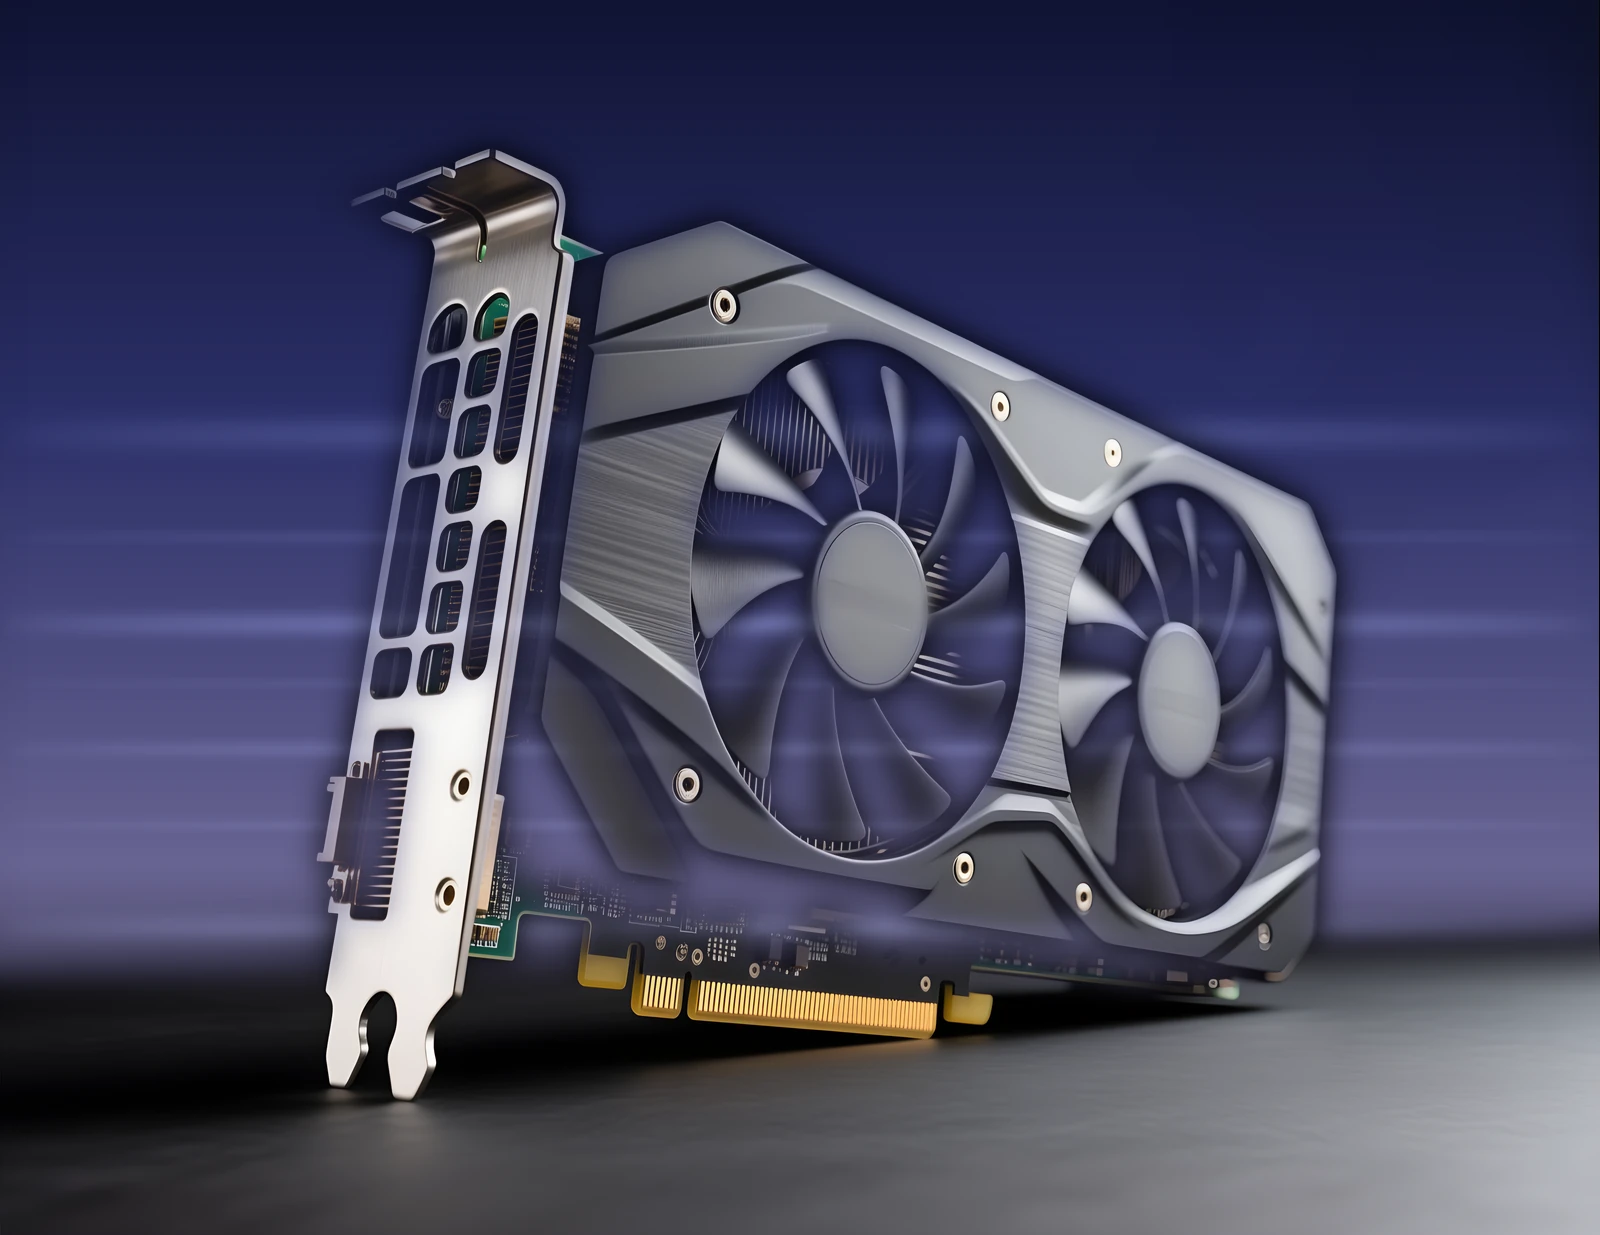
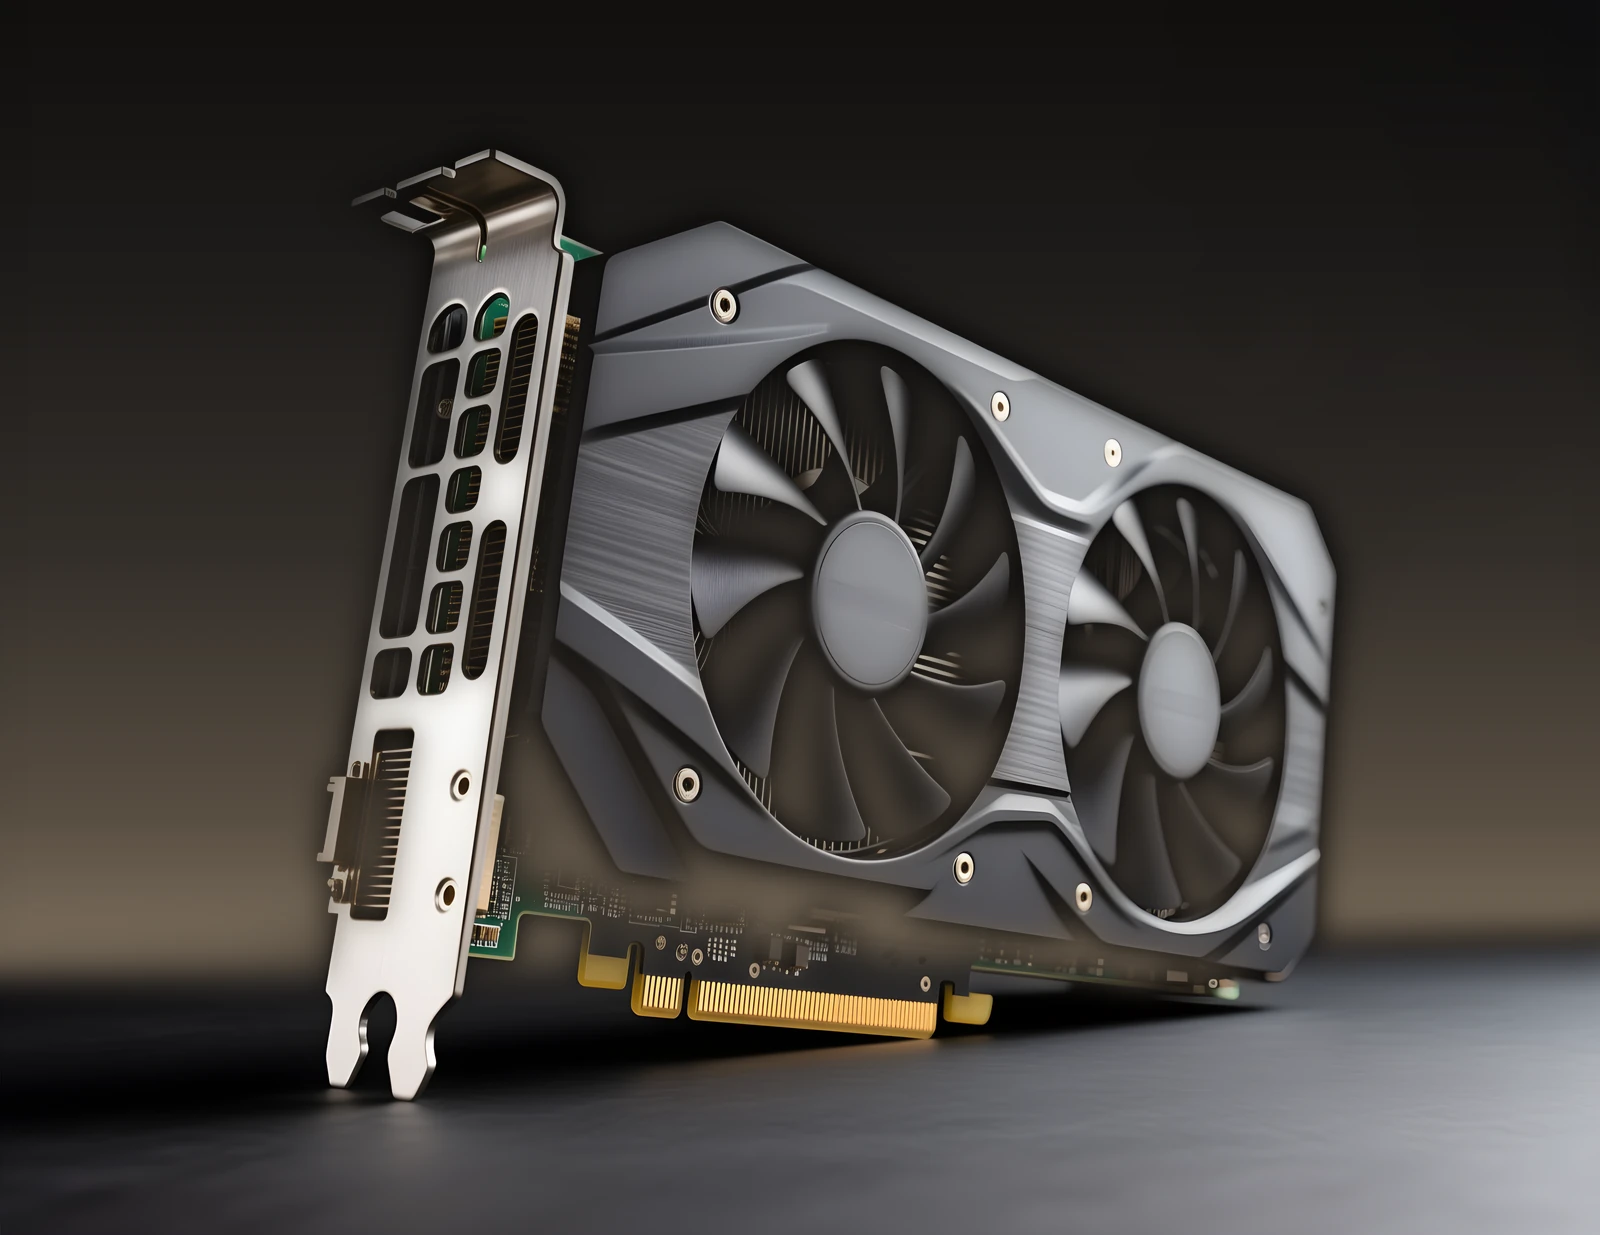
Stand the AM4 plates on this page's ground, not the reference's
The four staged images used LIT_GROUND, which was sampled pixel-for-pixel off
the reference storefront's artwork. On their page that ramp is right, because
their accent is blue. On this one the accent is amber, so every plate sat as a
navy-violet rectangle beside amber headings and amber numerals -- and in the
light theme it was a blue block dropped onto a white page, which is what the
last screenshot showed.

PLATE_GROUND keeps the shape of that gradient -- dark overhead, light at the
floor, the product standing on light -- in this page's own colour: neutral
graphite to a warm horizon. Neutral rather than amber, because a saturated
backdrop behind a grey component reads as a filter rather than as a studio.

The speed streaks go with it. They are a consumer-gaming cue, and this page
sells to procurement. streaks() is kept, and its docstring now says why it is
unused here rather than leaving it to look like live code.

Also:

  - The chassis card moves to the same ground. It was the last thing on the
    page still on the reference's navy, and leaving it there would have made
    the bento's largest card the only blue object on the page.
  - A Graphics stat read "UP TO / 16GB / Up to, Radeon RX" -- the label
    repeated its own prefix.
  - The storage alt text described three drives. The plate shows two; the M.2
    has been out of it since the fourth failed render.

The drives are still blank sealed boxes, and an attempt to fix that by
[…]

diff --git a/frontend/src/data/pdp/mt-amd-am4.js b/frontend/src/data/pdp/mt-amd-am4.js
@@ -23,6 +23,11 @@
  * look like directly under a section showing real DIMMs. It stays in the spec
  * row, the footnote and the bento glyph until someone photographs one.
  *
+ * The two drives that are shown read as plain sealed enclosures because every
+ * attempt to give them a connector edge produced something else -- hinge tabs
+ * on the 2.5", a latch clasp on the 3.5". gen_am4.py records the wording and
+ * the result. Blank is the deliberate choice, not the default one.
+ *
  * Every number on this page is either a row of this model's specGroups
  * (models.js) or AMD's published figure for the Ryzen 7 5700G the spec names:
  * 8 cores, 16 threads, 3.8 GHz base, up to 4.6 GHz boost, 16 MB L3.
@@ -149,7 +154,7 @@ export default {
       "alt": "A full-height desktop graphics card with two fans, rendered",
       "flip": true,
       "stats": [
-        ["16", "GB", "Up to, Radeon RX", "Up to"],
+        ["16", "GB", "Radeon RX card memory", "Up to"],
         ["500", "W", "80+ Bronze ATX supply"]
       ],
       "footnote": "A discrete graphics card is an optional configuration. Image is an illustration, not the card supplied."
@@ -174,7 +179,7 @@ export default {
       "headingAccent": "in the same box.",
       "body": "An M.2 SSD for the operating system and working files, with a 2.5-inch bay and a 3.5-inch bay beside it for bulk storage — all reachable from the one hand-removable side panel.",
       "image": "/images/am4/storage-set.webp",
-      "alt": "An M.2 drive, a 2.5-inch drive and a 3.5-inch drive, rendered",
+      "alt": "A 2.5-inch drive and a 3.5-inch drive shown at their true relative sizes, rendered",
       "flip": true,
       "footnote": "1× M.2 SSD (auto-switch) · 1× 2.5″ HDD/SSD · 1× 3.5″ HDD. Image is an illustration."
     },

diff --git a/tools/image-processing/am4_studio.py b/tools/image-processing/am4_studio.py
@@ -239,6 +239,23 @@ LIT_GROUND = ((0.00, (24, 26, 40)), (0.06, (17, 23, 73)), (0.20, (41, 48, 116)),
               (0.74, (191, 175, 186)), (0.86, (234, 223, 217)), (1.00, (150, 132, 130)))
 
 
+#: The component plates' backdrop: graphite falling to a warm horizon.
+#:
+#: LIT_GROUND below is the reference storefront's own ramp -- navy through violet
+#: to a near-white sand -- and it was sampled off their artwork and used here
+#: verbatim. On their page that is right: their accent IS blue. On this one the
+#: accent is amber, so a blue plate sat beside amber headings and amber numerals
+#: and read as borrowed, and on the light theme it was a blue rectangle dropped
+#: onto a white page.
+#:
+#: These stops are the same SHAPE of gradient -- dark overhead, light at the
+#: floor, the product standing on light -- in this page's own colour. Neutral
+#: graphite rather than a saturated amber, because a strongly tinted backdrop
+#: behind a grey component reads as a filter rather than as a studio.
+PLATE_GROUND = ((0.00, (17, 16, 15)), (0.22, (30, 28, 26)), (0.45, (52, 47, 42)),
+                (0.66, (88, 78, 66)), (0.84, (146, 129, 108)), (1.00, (183, 166, 142)))
+
+
 def _ground(W, H, stops):
     """A vertical gradient. Stops are (position, colour) pairs, or two colours."""
     if len(stops[0]) == 3:
@@ -253,6 +270,13 @@ def _ground(W, H, stops):
 
 def streaks(img, at=0.52, count=7, spread=0.22, strength=0.55, tint=(196, 214, 255)):
     """Horizontal light streaks across the backdrop, behind the subject.
+
+    UNUSED as of the move to PLATE_GROUND, and kept rather than deleted because
+    the technique is sound and only the styling was wrong for this page. Streaks
+    are a consumer-gaming cue -- the reference sells to enthusiasts, this page
+    sells to procurement -- and a plain graphite sweep reads as the product
+    photography an enterprise buyer expects. Bring them back for a page that
+    wants that energy; do not bring them back here.
 
     The reference's component sections all carry these -- long, soft, unevenly
     spaced bands of light drawn through the gradient at about the subject's

diff --git a/tools/image-processing/stage_am4_parts.py b/tools/image-processing/stage_am4_parts.py
@@ -145,9 +145,8 @@ def sky_swap(im, horizon, ceiling=34, feather=0.012):
     sel = band[bl <= np.percentile(bl, 60)]
     floor_rgb = np.median(sel, axis=0) if sel.size else np.array([28.0, 28.0, 34.0])
 
-    ground = ((0.00, (16, 20, 52)), (0.34, (44, 48, 104)), (0.70, (104, 100, 146)),
-              (1.00, tuple(int(v) for v in floor_rgb)))
-    bg = studio.streaks(studio._ground(W, H, ground), at=horizon * 0.72, strength=0.26)
+    ground = studio.PLATE_GROUND[:-1] + ((1.00, tuple(int(v) for v in floor_rgb)),)
+    bg = studio._ground(W, H, ground)
 
     rows = np.arange(H)[:, None]
     sky = np.clip((ceiling - lum) / ceiling, 0, 1) * (rows < y0)
@@ -226,7 +225,7 @@ def storage_set(gap=0.030, floor=0.70, widest=0.50):
     total = sum(i.width for i in sized) + round(gap * W) * (len(sized) - 1)
     x = (W - total) // 2
     base = round(H * floor)
-    canvas = studio.streaks(studio._ground(W, H, studio.LIT_GROUND), at=0.56, strength=0.26)
+    canvas = studio._ground(W, H, studio.PLATE_GROUND)
     shadow = Image.new("L", (W, H), 0)
     d = ImageDraw.Draw(shadow)
     for im in sized:
@@ -264,9 +263,8 @@ def stage_cut(name, src, height=0.62, floor=0.80, cx=0.50):
     W, H = CANVAS
     canvas, _ = studio.compose(
         part, W, H, height=height, floor=floor, cx=cx,
-        ground=studio.LIT_GROUND, halo=(90, 94, 120), halo_at=0.30,
-        glow=(150, 104, 60), glow_at=30,
-        after_ground=lambda im: studio.streaks(im, at=0.56, strength=0.26))
+        ground=studio.PLATE_GROUND, halo=(74, 70, 64), halo_at=0.30,
+        glow=(150, 104, 60), glow_at=26)
     canvas = canvas.resize((WIDTH, round(H * WIDTH / W)), Image.LANCZOS)
     out = DEST / f"{name}.webp"
     canvas.save(out, "WEBP", quality=90, method=6)

diff --git a/tools/image-processing/gen_am4.py b/tools/image-processing/gen_am4.py
@@ -44,6 +44,20 @@ Rules that come from earlier failures in this project, not from taste:
     the part should not show. "a bare dark green circuit board covering its
     underside" was meant to say the drive has a PCB underneath; the model read it
     as an instruction and returned an open case with its board on display.
+  * A CONNECTOR cannot be described into existence, and the drives stay blank
+    because of it. The two storage prompts say "completely closed on every face,
+    plain unmarked surfaces", which is why they return featureless brushed
+    boxes -- a fair complaint about the plate, and one attempt was made to fix
+    it by describing a SATA edge as geometry: "two adjacent slot openings set
+    into the side wall, each a narrow dark recess with a small stepped notch at
+    one end". The model reads a recess-with-a-notch as something that sticks
+    out. The 2.5" came back with three protruding hinge tabs along its edge and
+    the 3.5" became a latched aluminium equipment case. This is the M.2 failure
+    again -- the model has a stronger prior for a familiar object that roughly
+    matches the words than for the unfamiliar one being described -- and it is
+    the reason the blank-box wording is deliberate rather than lazy. A drive
+    that reads as a lunchbox is worse than a drive that reads as a sealed case.
+    Do not retry this without a photograph to edit from.
   * The Ryzen chip is an edit at low denoise from a photograph, because it has
     lettering. That source is a Ryzen 7 3700X, so the model number is defocused
     afterwards -- the page sells a 5700G.

diff --git a/tools/image-processing/gen_am4_edits.py b/tools/image-processing/gen_am4_edits.py
@@ -149,7 +149,7 @@ def front_card():
 
     canvas, (x, y, s) = studio.compose(
         cut, CARD_W, CARD_H, height=0.58, floor=0.80, cx=0.500,
-        ground=studio.LIT_GROUND, halo=(140, 142, 170), halo_at=0.44, glow_at=40,
+        ground=studio.PLATE_GROUND, halo=(118, 108, 94), halo_at=0.44, glow_at=36,
         glow=(150, 104, 60))
     px = lambda v: round(v / CARD_W * 100, 1)
     py = lambda v: round(v / CARD_H * 100, 1)
